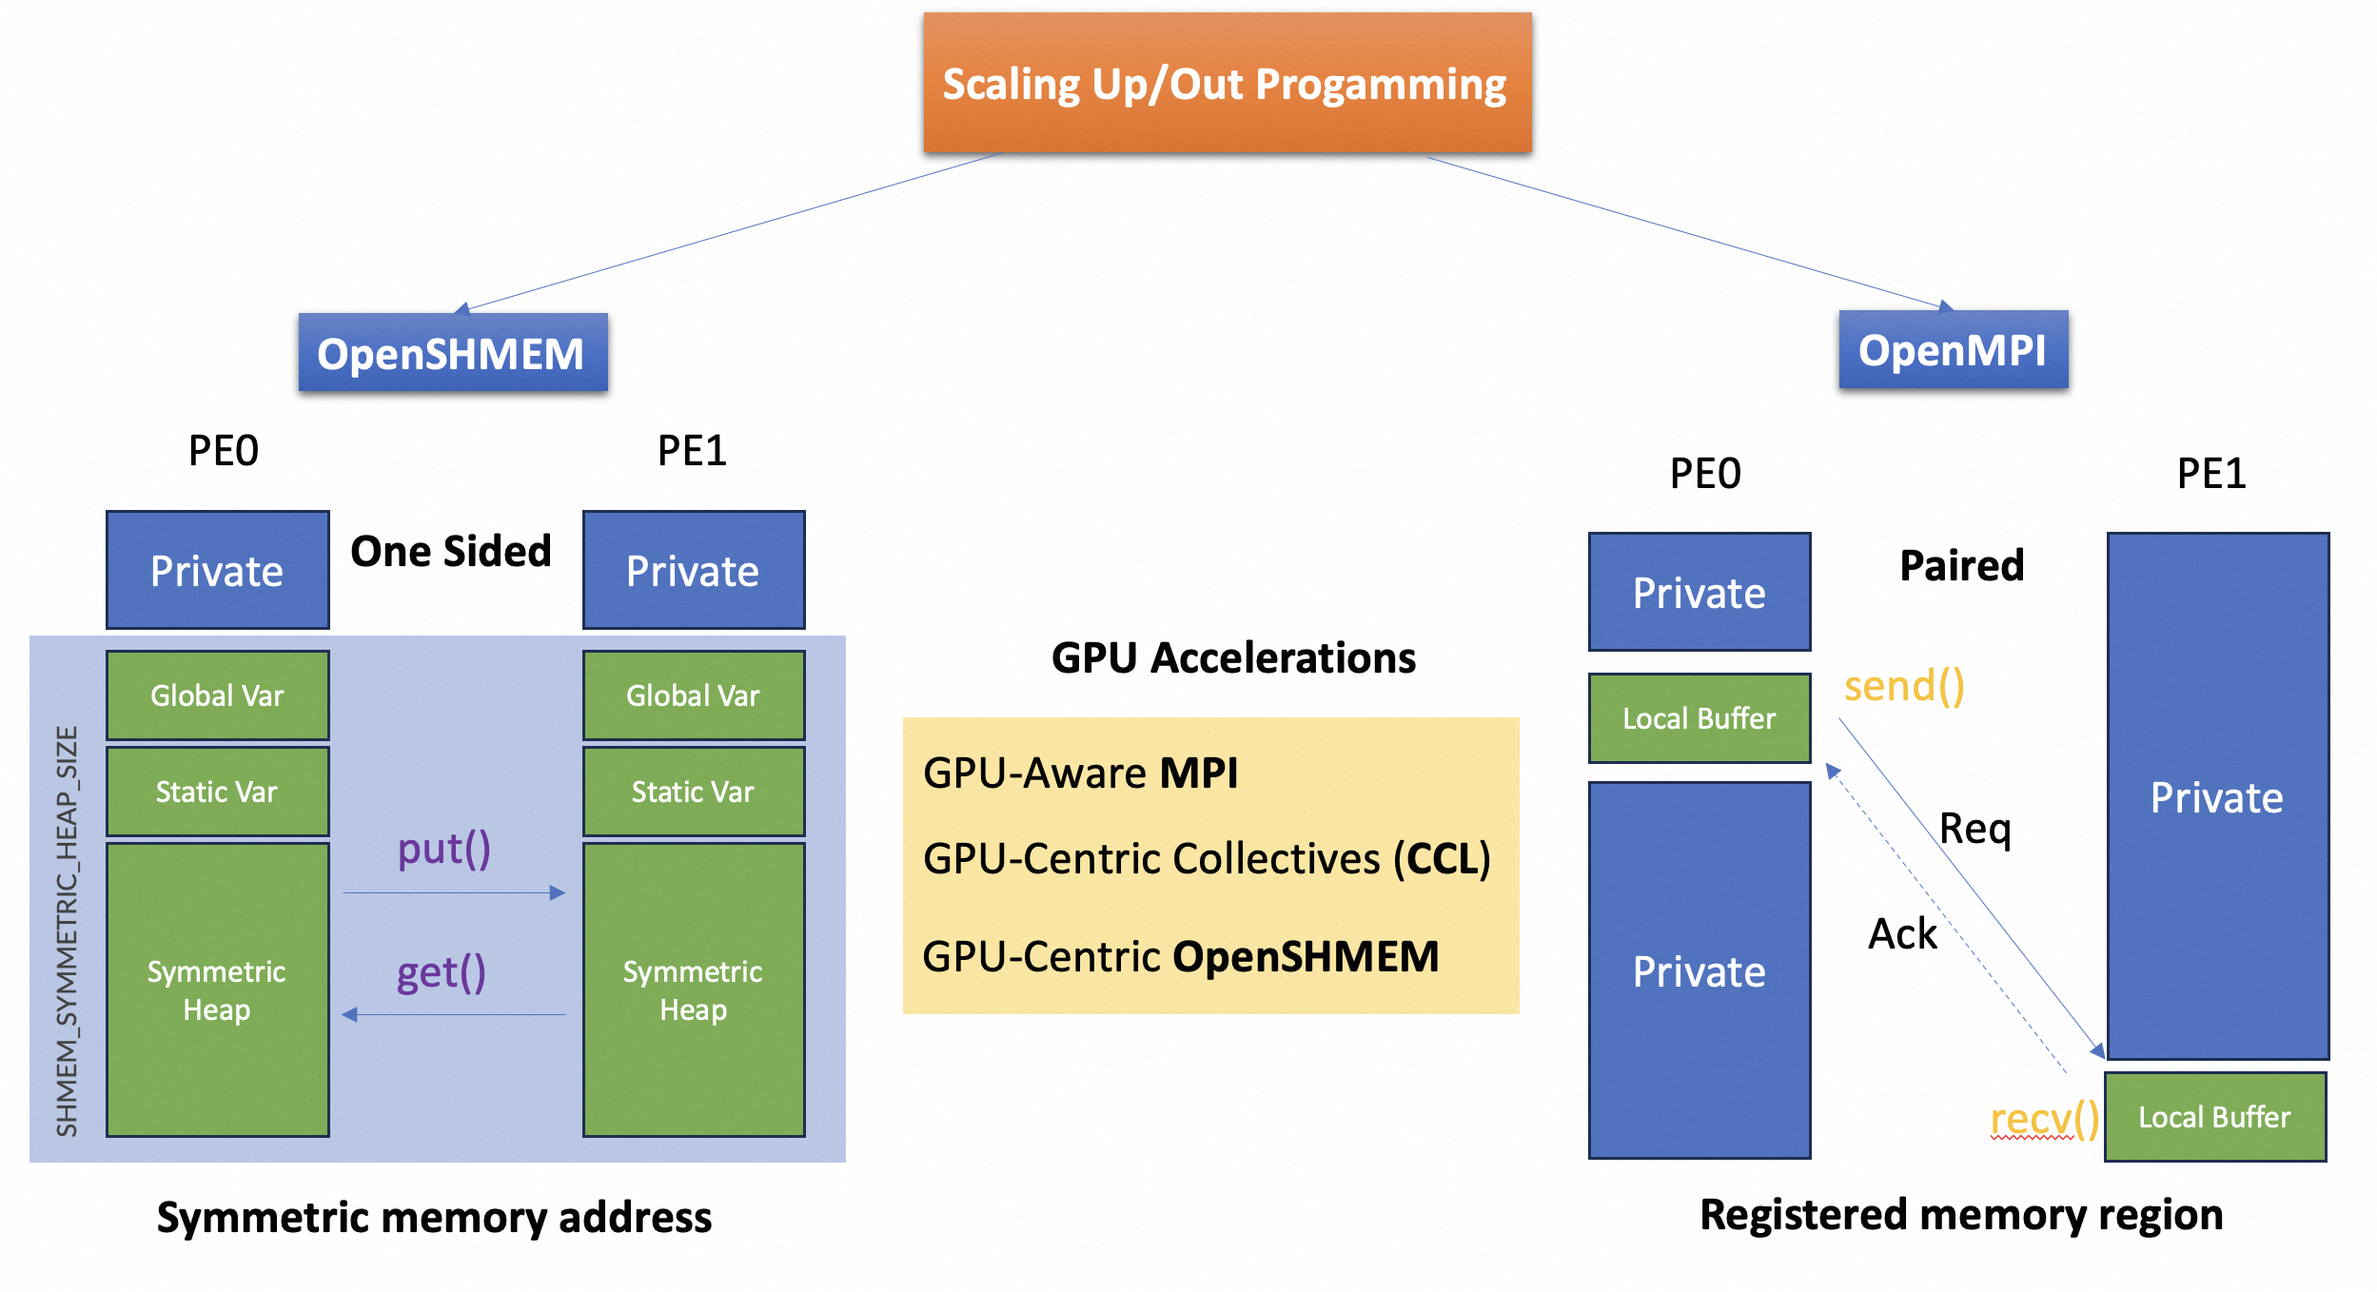
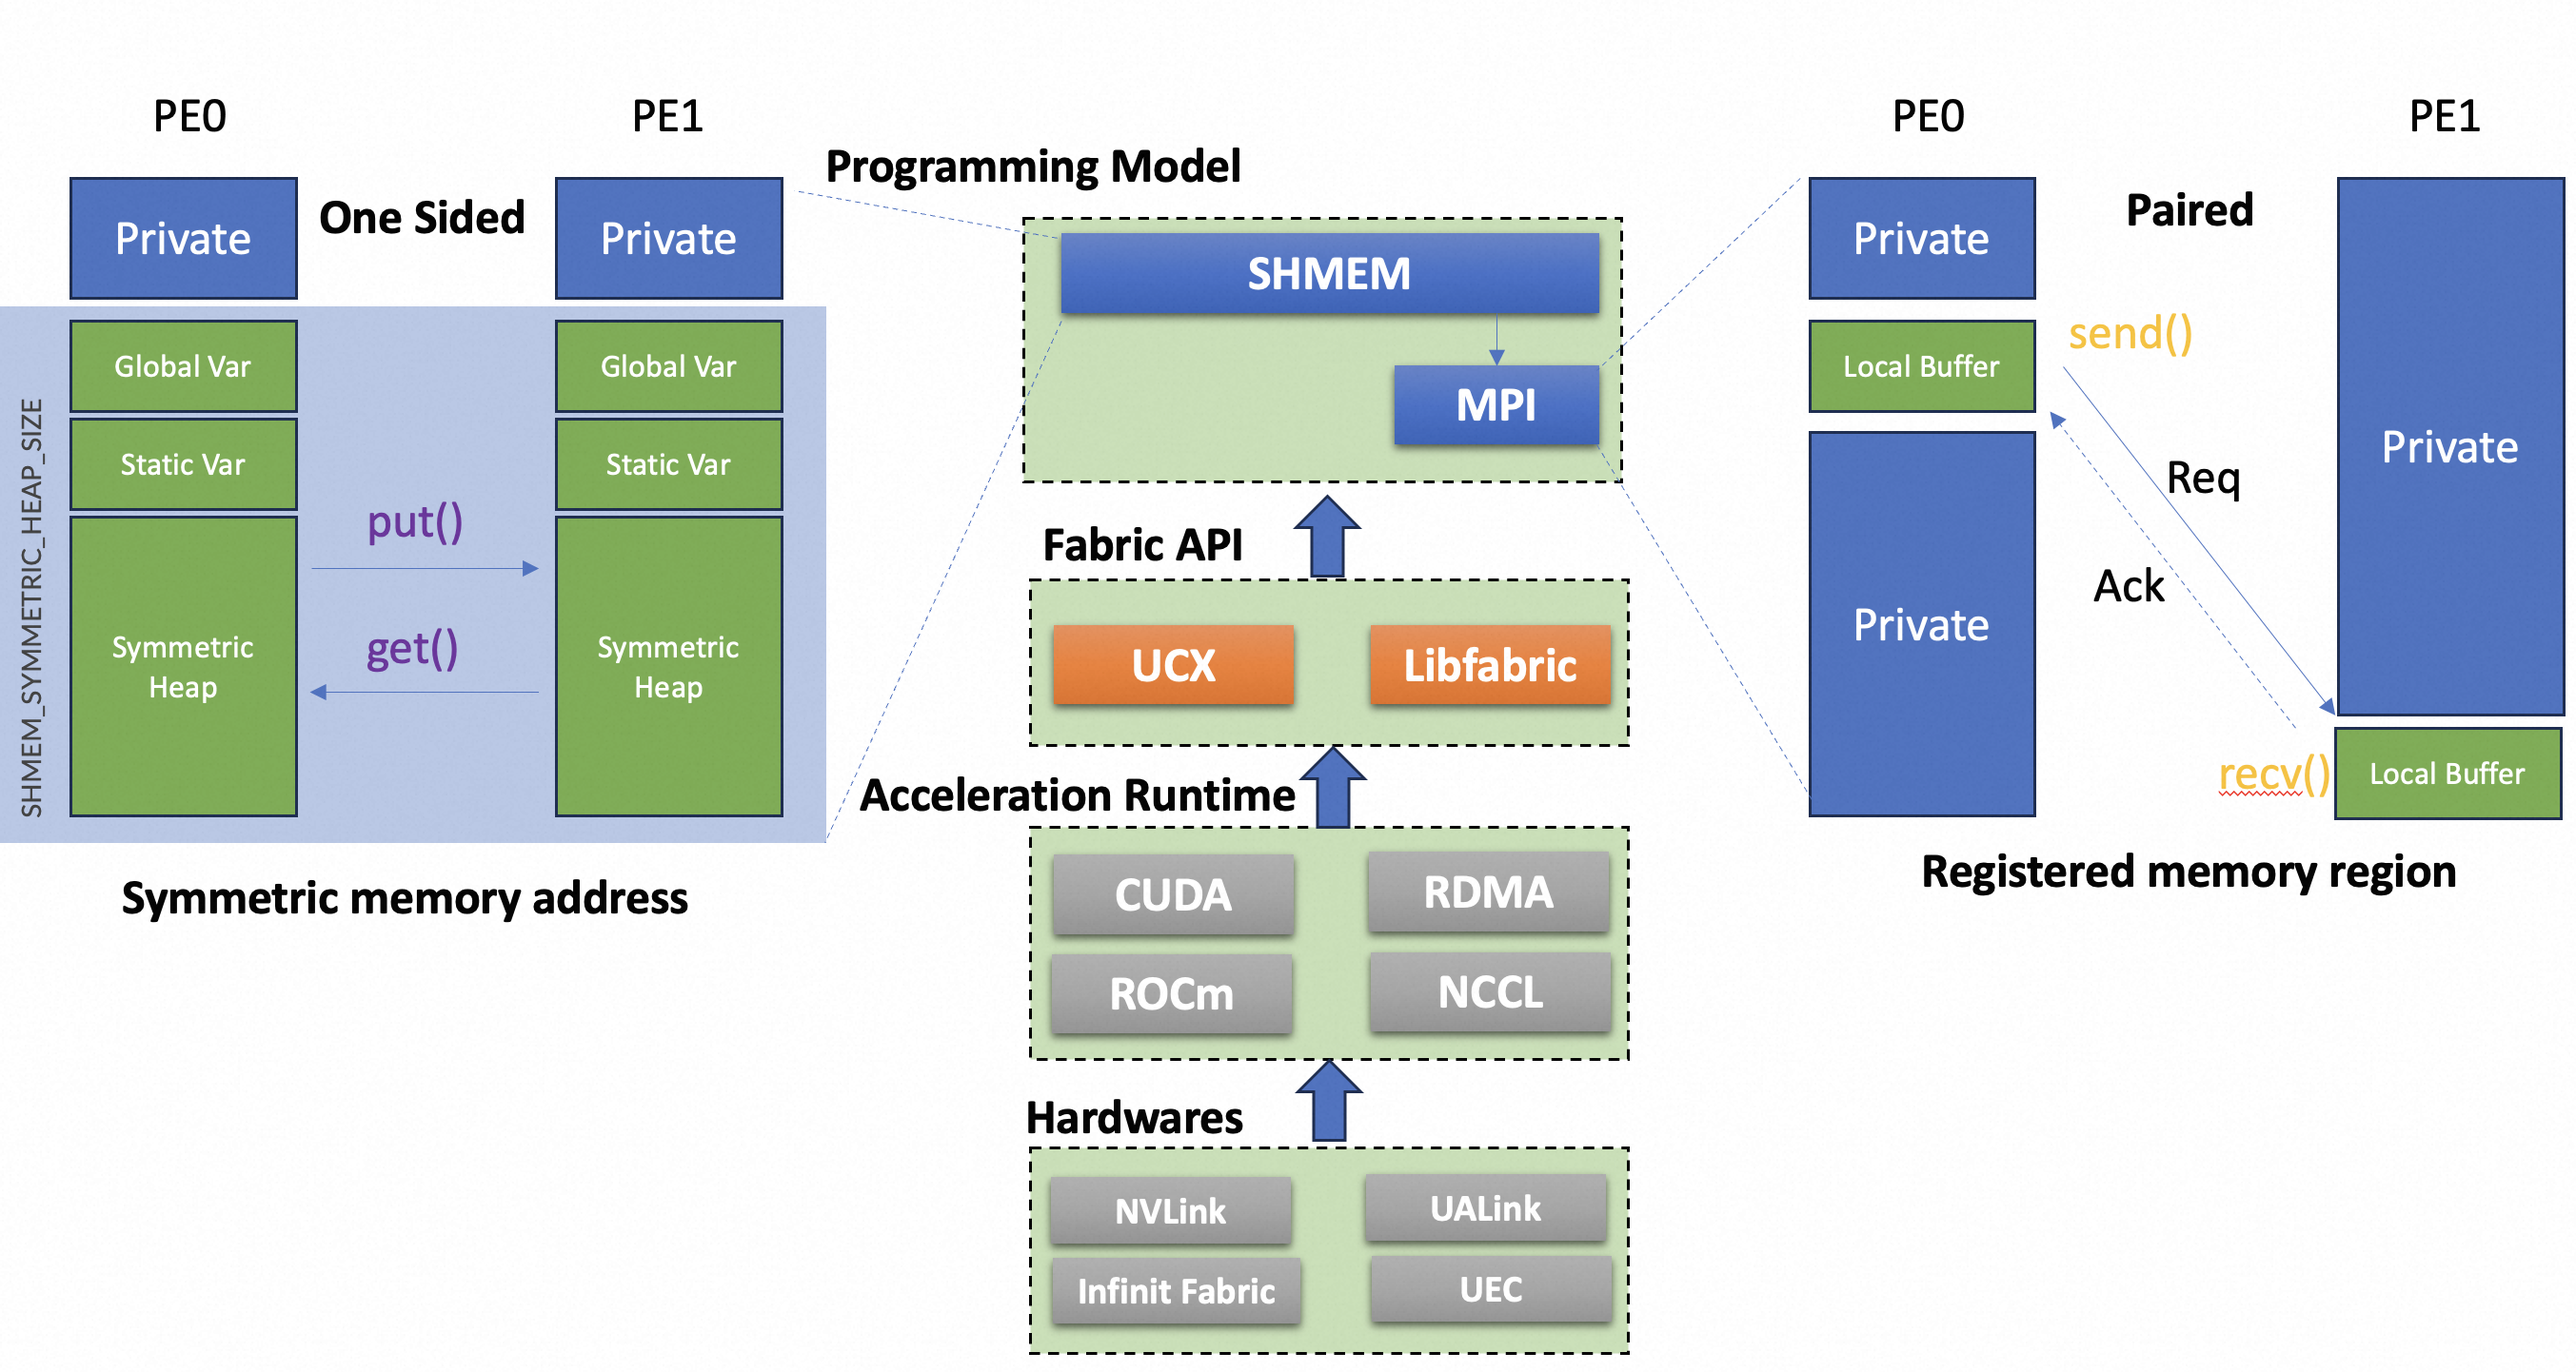
Updated the Bibliography and programming models

diff --git a/_posts/2025-3-24-Addressing-of-GPU-Scaling-Out-Up.md b/_posts/2025-3-24-Addressing-of-GPU-Scaling-Out-Up.md
@@ -90,16 +90,19 @@ There are two parallel programming models in large distributed system: shared me
 ![Scaling Programming Model](/assets/img/Scaling-Programming-Model.png){:width="100%"}
 
 **SHMEM** 
-* Shared data are allocated in **Symmetric Heap**, which has the **same virtual address**
+* Shared data are allocated in **Symmetric Heap**, but each PE manages its memory and the allocated buffer are **different virtual address**. Only size and alignment are coherent between PEs.
 * Memory are accessed using **One Sided** api, which means remote nodes is not aware when and who is access the shared memory.
 
 **MPI** 
 * No shared memory, only local buffer is used for **temporary** storage.
 * Memory are accessed using **Two Sided** api, which means remote nodes needs to **acknowledge** the transaction.
 
-**GPU Acceleration**  
-* Both SHMEM and MPI were designed for HPC before, which means both communication happens between **hosts** and **host**.
-* In GPU scaling system, this two programming model are accelerated with direct **GPU** to **GPU** communications. 
+**Fabric API**: 
+
+Libraries that aim to provide low-level, high-performance communication interfaces for applications in high-performance computing (HPC), cloud, data analytics, and other fields requiring efficient network communication. 
+
+* **UCX**: [https://openucx.org/](https://openucx.org/), unified API that handles many of the complexities of multi-transport environments.
+* **Libfabic**: [https://ofiwg.github.io/libfabric/](https://ofiwg.github.io/libfabric/), Fine-grained control over their network operations.
 
 
 ### Scaling Systems
